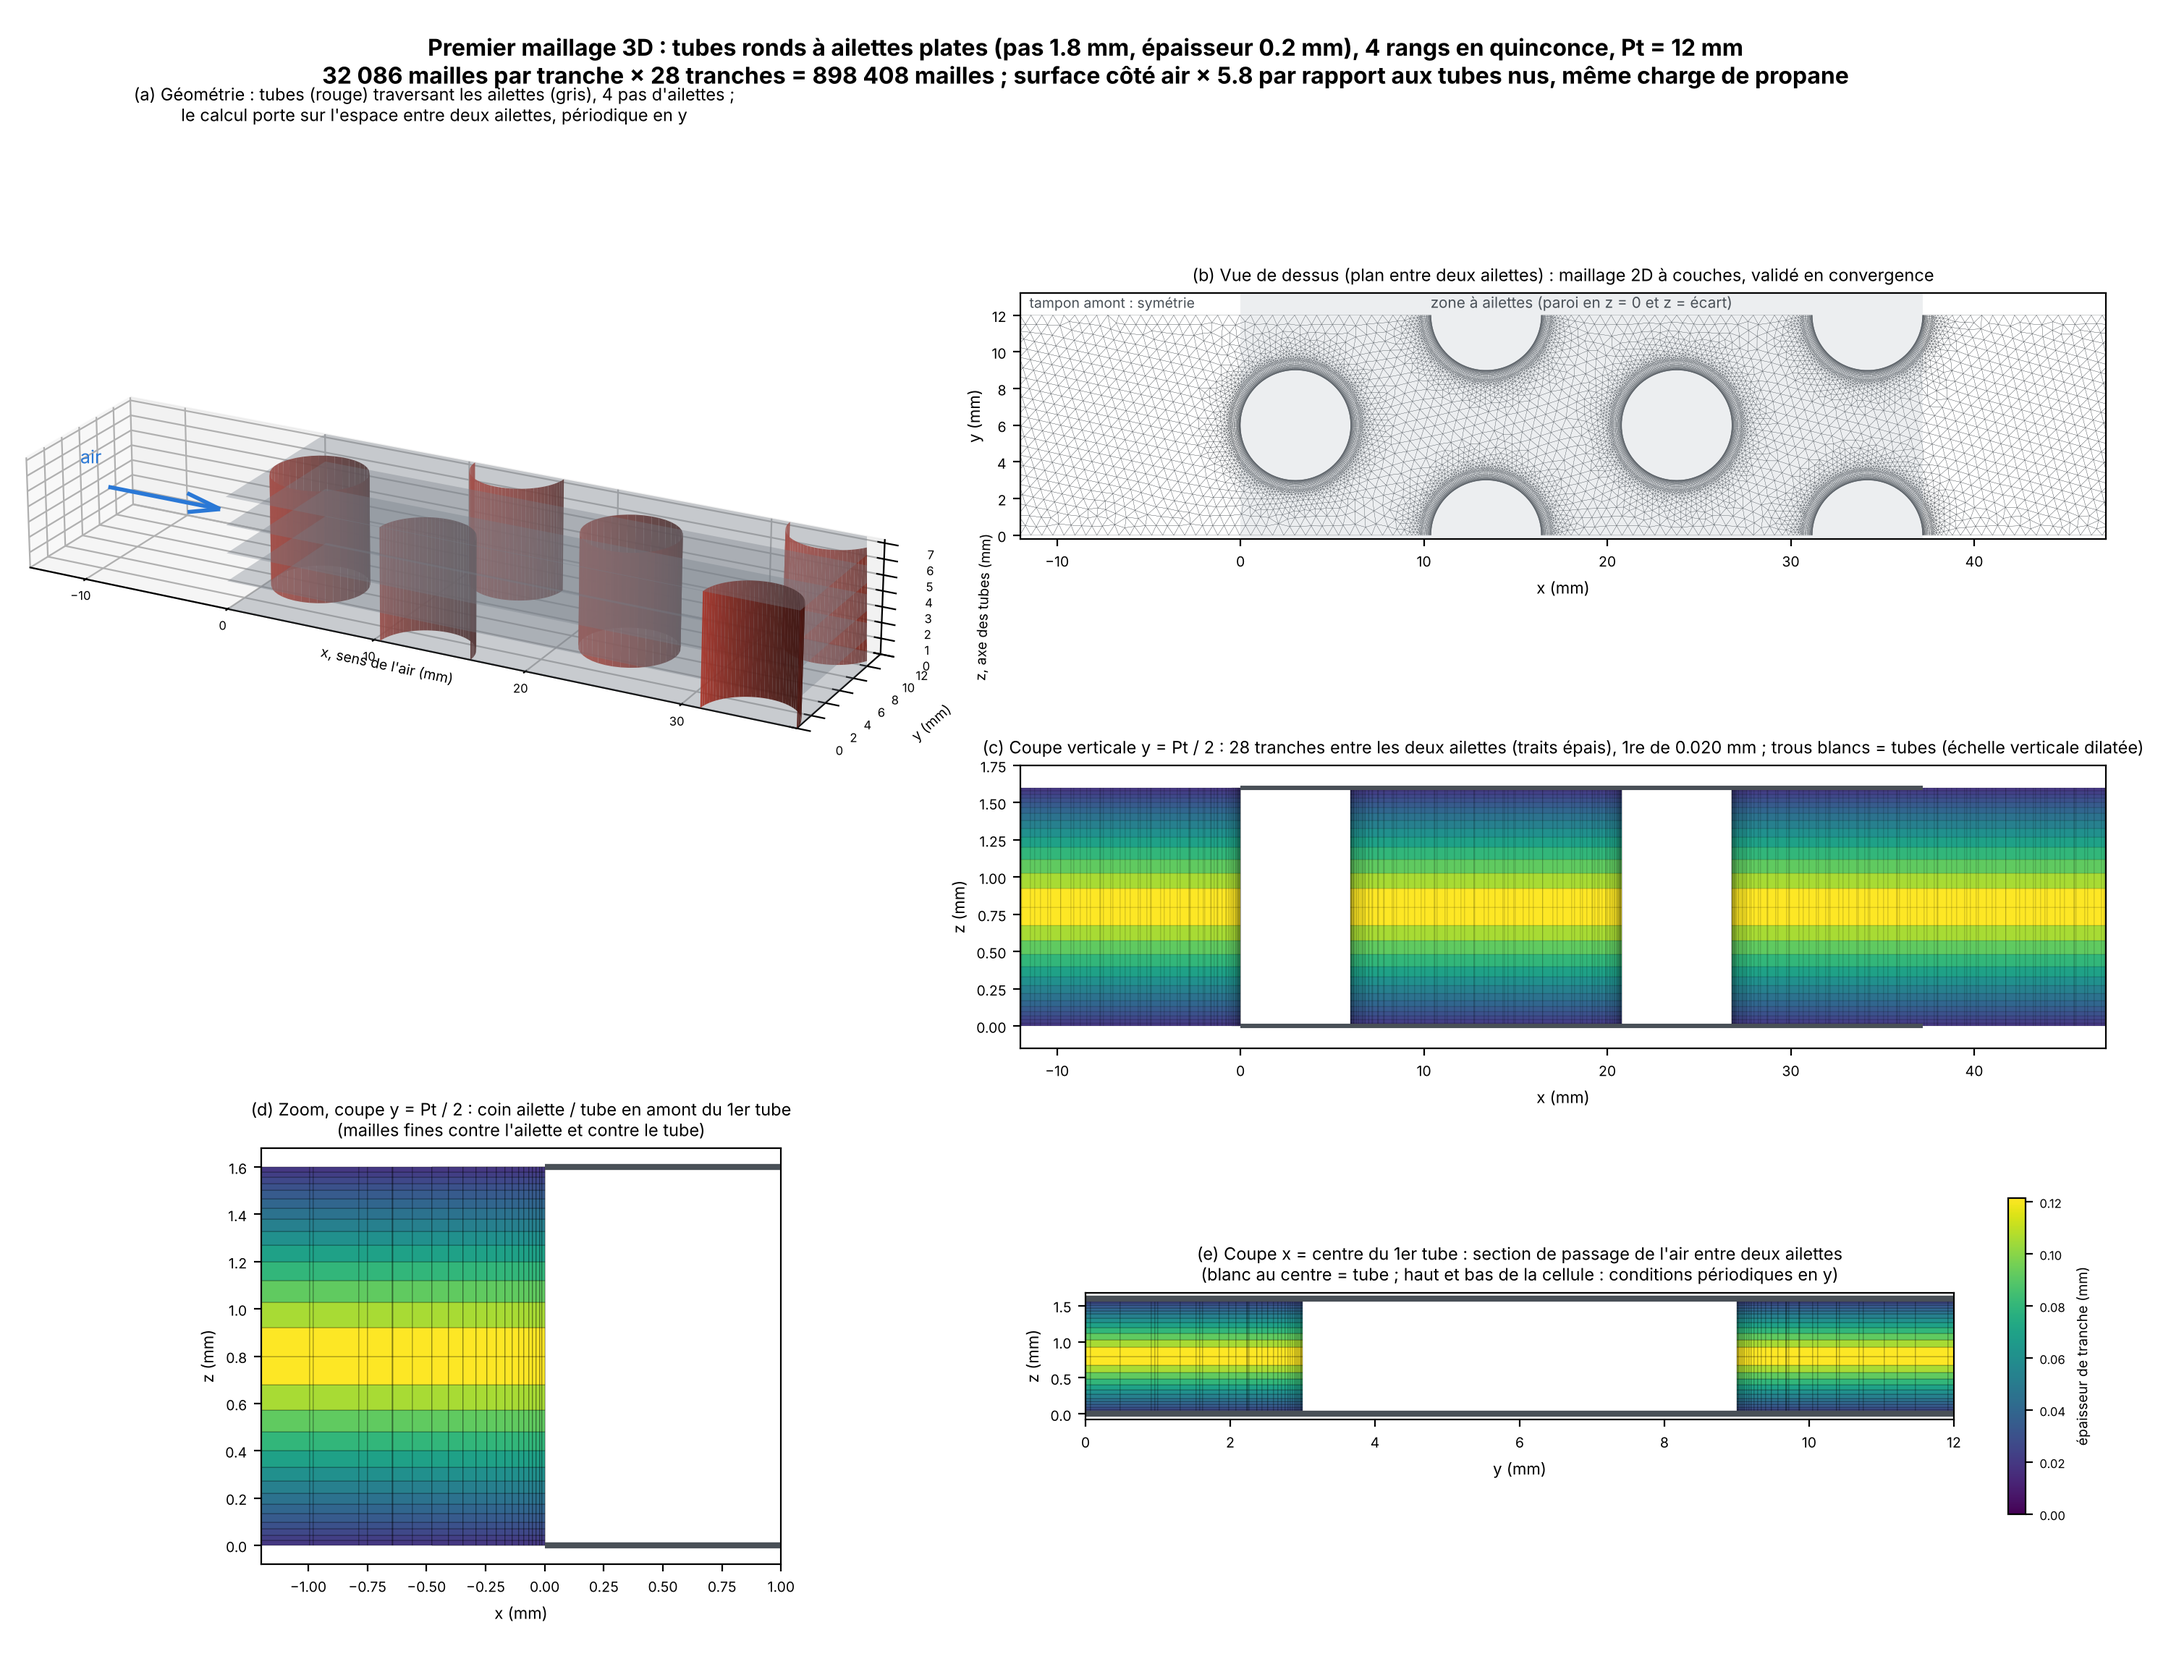
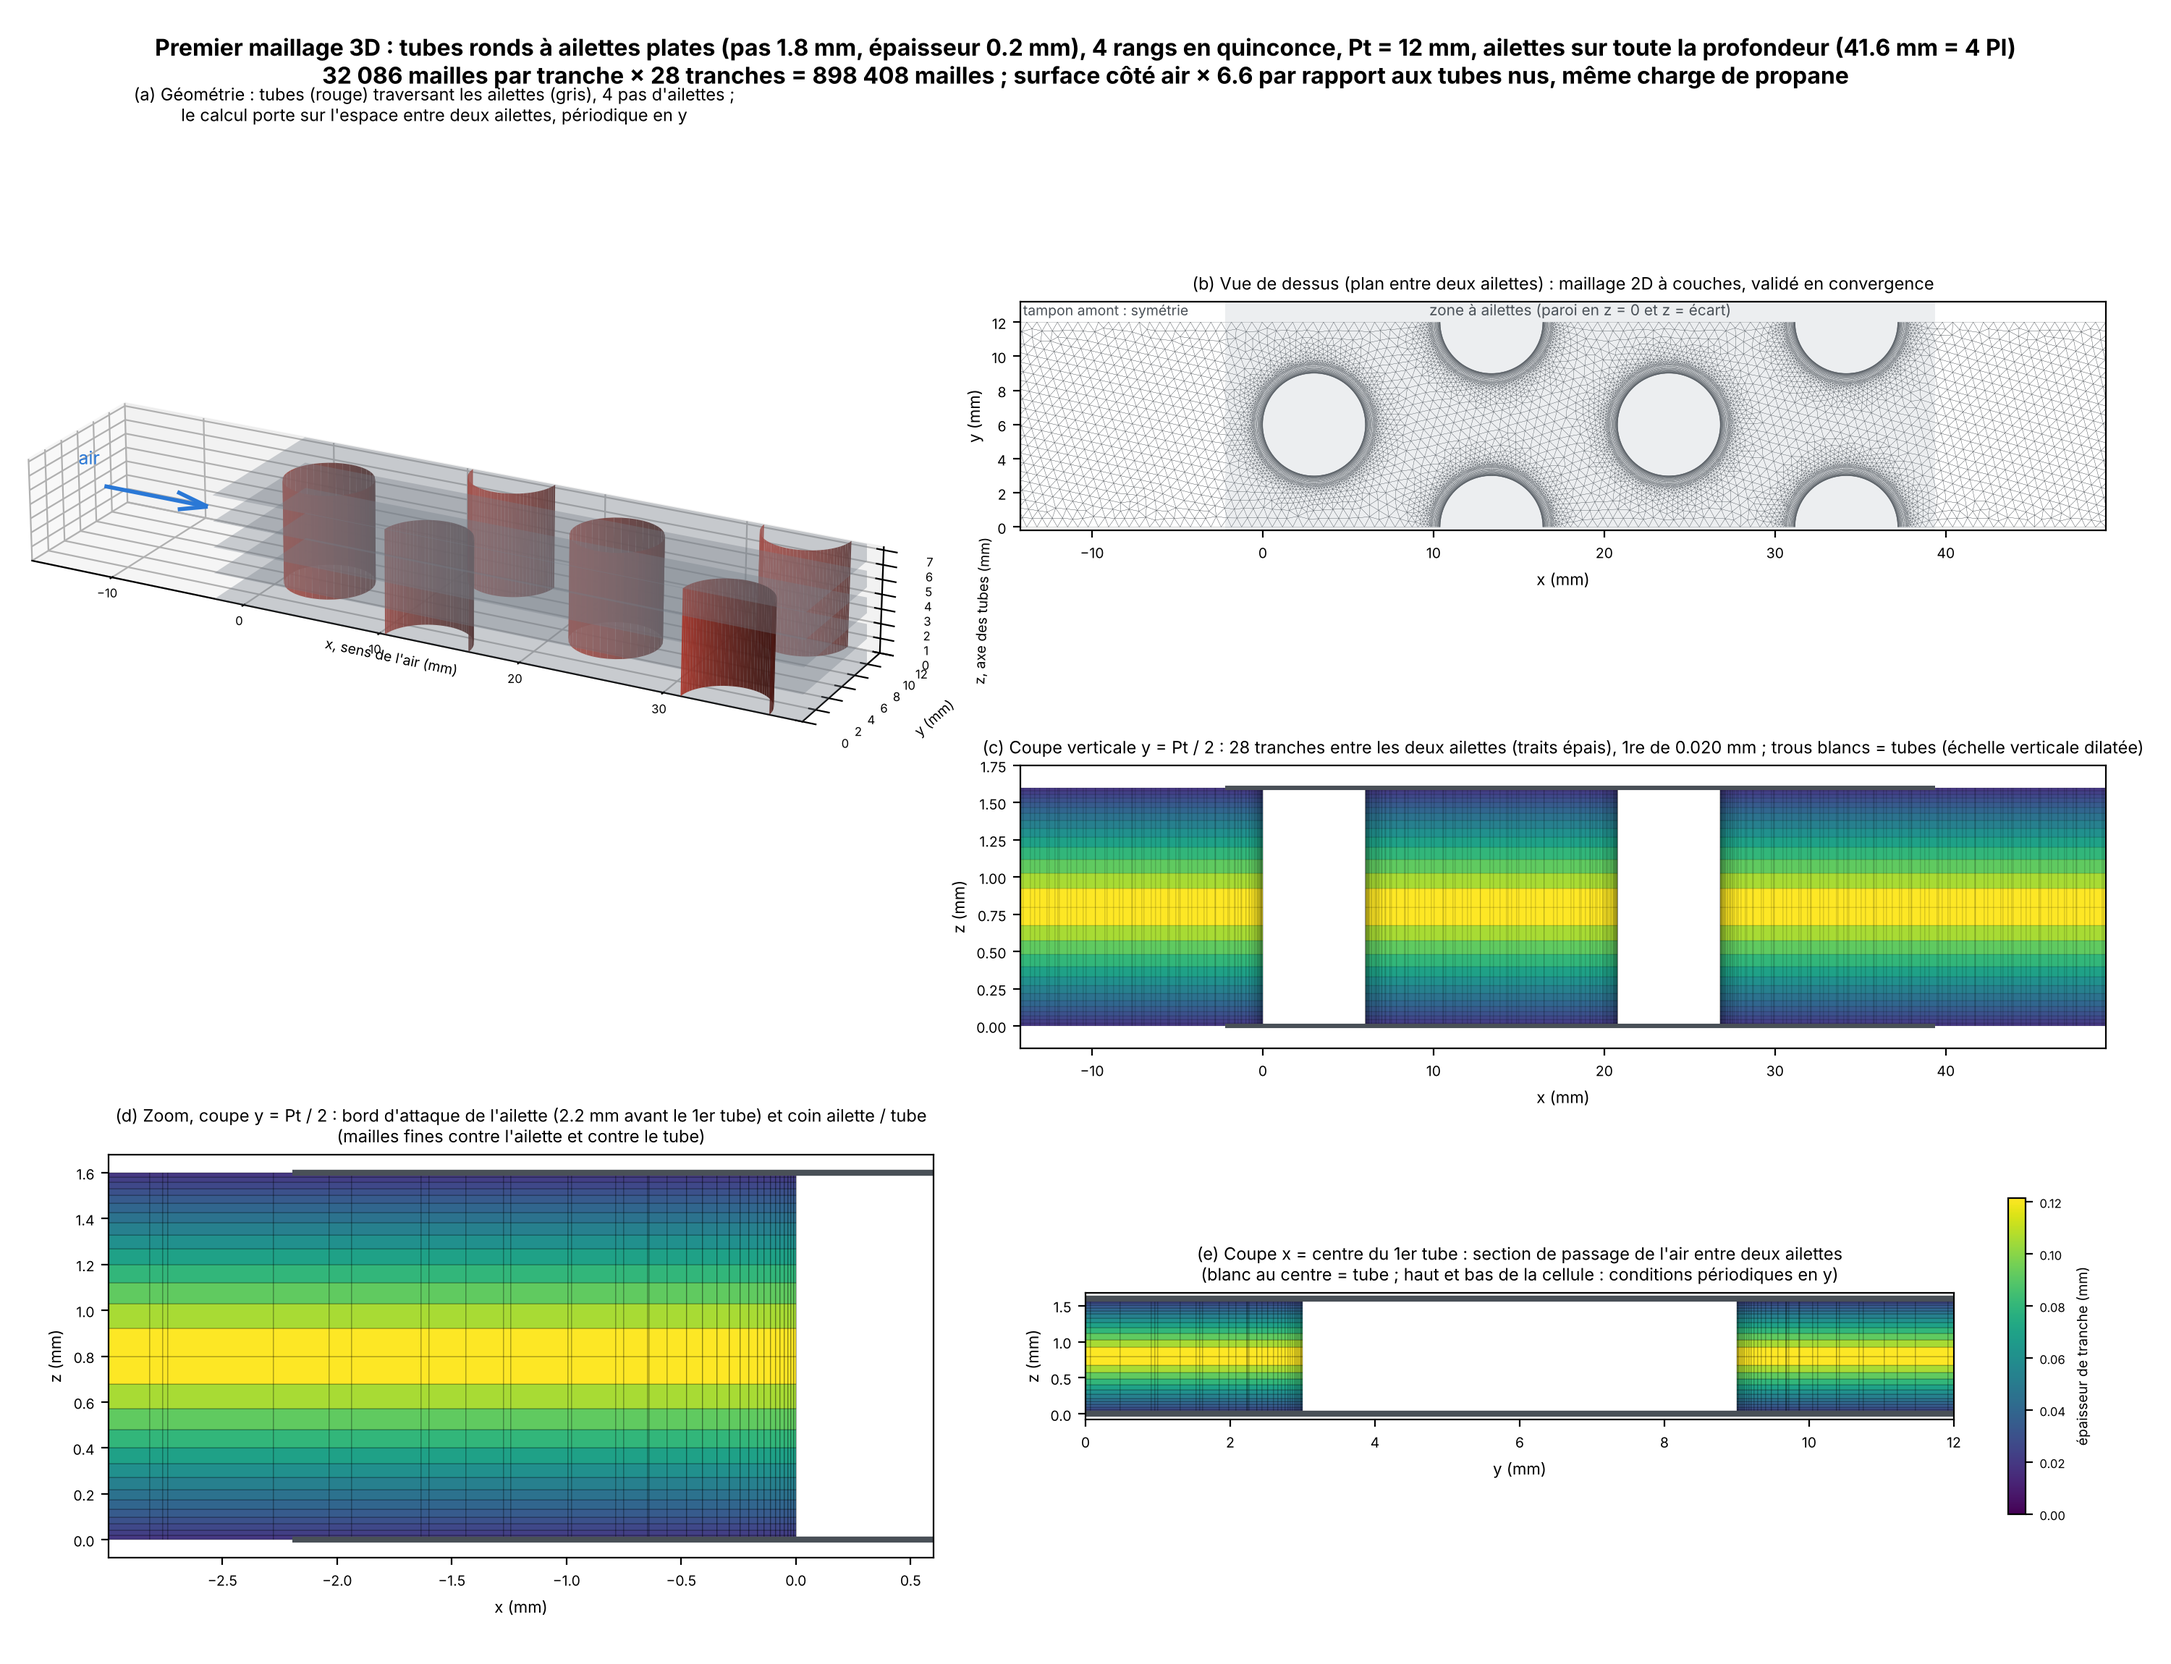
Ailettes plates sur toute la profondeur de la batterie (4 Pl, chaque rang centré dans sa bande)
Claude-Session: https://claude.ai/code/session_01BUfgHTr4QYfxBPPMun5tc5

diff --git a/outils/cfd_3d/ailettes_plates.py b/outils/cfd_3d/ailettes_plates.py
@@ -81,6 +81,15 @@ def dessiner_coupe(ax, intervalles, z, s0, decal=0.0, lw=0.15, couleur="#2a78d6"
     ax.add_collection(PolyCollection(rects, facecolors=couleurs, edgecolors="k", linewidths=lw))
 
 
+def etendue_ailettes(b):
+    """Ailettes sur toute la profondeur de la batterie : chaque rang au centre de sa bande Pl,
+    soit une profondeur d'ailette de rangs × Pl (marge de Pl / 2 - demi-largeur du tube avant
+    le 1er rang et après le dernier). Renvoie (x début, x fin, marge) en mm."""
+    x0, x1 = b.x_noyau
+    m = b.Pl / 2 - (b.exterieur.bounds[2] - b.exterieur.bounds[0]) / 2
+    return x0 - m, x1 + m, m
+
+
 def vue_3d(ax, b, Fp, e, n_ail=4):
     """Tubes (cylindres) et ailettes (plaques translucides) sur quelques pas d'ailettes."""
     H = n_ail * Fp
@@ -94,7 +103,7 @@ def vue_3d(ax, b, Fp, e, n_ail=4):
         T, Z = np.meshgrid(np.linspace(t0, t1, 40), zz)
         ax.plot_surface(cx + r * np.cos(T), cy + r * np.sin(T), Z, color="#c0392b",
                         alpha=0.9, linewidth=0, shade=True)
-    x0, x1 = b.x_noyau
+    x0, x1, _ = etendue_ailettes(b)
     for k in range(n_ail + 1):
         zf = k * Fp
         X, Y = np.meshgrid([x0, x1], [0, b.Pt])
@@ -118,11 +127,12 @@ def main():
     b, xy, cellules, bords = mailler_couches(a.forme)
     z, n_demi = tranches(Fp - e)
     n2d, nz = len(cellules), len(z) - 1
-    x0, x1 = b.x_noyau
+    x0, x1, _ = etendue_ailettes(b)
     aire_ext = Polygon(b.exterieur.exterior.coords).area
     A_ail = 2 * (b.Pt * (x1 - x0) - b.rangs * aire_ext) / Fp
     A_tub = b.rangs * b.P_ext * (Fp - e) / Fp
     info = dict(forme=a.forme, pas_ailettes_mm=Fp, epaisseur_mm=e, ecart_mm=Fp - e, Pt_mm=b.Pt, Pl_mm=b.Pl,
+                profondeur_ailettes_mm=x1 - x0, marge_ailettes_mm=etendue_ailettes(b)[2],
                 rangs=b.rangs, cellules_2d=n2d, tranches=nz, cellules_3d=n2d * nz,
                 premiere_tranche_mm=float(z[1]), tranche_milieu_mm=float(np.diff(z).max()),
                 surface_air_sans_ailettes_mm2_par_mm=b.rangs * b.P_ext,
@@ -136,7 +146,7 @@ def main():
     fig = plt.figure(figsize=(15, 11.5))
     mil = lambda n: f"{n:,}".replace(",", " ")
     fig.suptitle(f"Premier maillage 3D : tubes ronds à ailettes plates (pas {Fp:g} mm, épaisseur {e:g} mm), "
-                 f"4 rangs en quinconce, Pt = {b.Pt:.0f} mm\n"
+                 f"4 rangs en quinconce, Pt = {b.Pt:.0f} mm, ailettes sur toute la profondeur ({x1 - x0:.1f} mm = 4 Pl)\n"
                  f"{mil(n2d)} mailles par tranche × {nz} tranches = {mil(n2d * nz)} mailles ; surface côté air × "
                  f"{info['facteur_surface']:.1f} par rapport aux tubes nus, même charge de propane",
                  fontsize=11.5, fontweight="bold")
@@ -178,10 +188,10 @@ def main():
     dessiner_coupe(ax, iv, z, s0, decal=s0, lw=0.12)
     for zf in (0, Fp - e):
         ax.plot([x0, x1], [zf, zf], color="#495057", lw=3, solid_capstyle="butt")
-    ax.set_xlim(cx - r - 1.2, cx - r + 1.0); ax.set_ylim(-0.08, Fp - e + 0.08); ax.set_aspect("equal")
+    ax.set_xlim(x0 - 0.8, cx - r + 0.6); ax.set_ylim(-0.08, Fp - e + 0.08); ax.set_aspect("equal")
     ax.set_xlabel("x (mm)", fontsize=8); ax.set_ylabel("z (mm)", fontsize=8); ax.tick_params(labelsize=7)
-    ax.set_title("(d) Zoom, coupe y = Pt / 2 : coin ailette / tube en amont du 1er tube\n"
-                 "(mailles fines contre l'ailette et contre le tube)", fontsize=8.5)
+    ax.set_title(f"(d) Zoom, coupe y = Pt / 2 : bord d'attaque de l'ailette ({etendue_ailettes(b)[2]:.1f} mm avant "
+                 "le 1er tube) et coin ailette / tube\n(mailles fines contre l'ailette et contre le tube)", fontsize=8.5)
 
     # (e) coupe yz à travers le centre du 1er tube : ce que voit l'air de face
     ivy = coupe(xy, cellules, (cx, 0.0), (cx, b.Pt))
